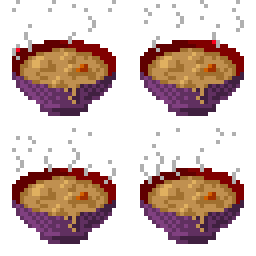
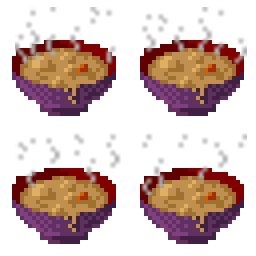
アイテムアニメーション

diff --git a/Solution/Item.cpp b/Solution/Item.cpp
@@ -1,16 +1,33 @@
 #include "Item.h"
+#include "Drawer.h"
+#include "Camera.h"
+#include "define.h"
 
 static const int CHIP_SIZE = 128;
 static const int CHIP_FOOT = 0;
 
 Item::Item( int x, int y ) :
-Character( x, y, CHIP_SIZE, CHIP_FOOT, false ) {
-	setChipGraph( GRAPH_ITEM, 0, 0 );
+_pos( x, y ),
+_count( 0 ) {
 }
 
 
 Item::~Item( ) {
 }
 
-void Item::act( ) {
+void Item::update( ) {
+	_count++;
+}
+
+void Item::draw( CameraConstPtr camera ) const {
+	int idx = _count / 5 % 4;
+	int tx = idx % 2 * CHIP_SIZE;
+	int ty = idx / 2 * CHIP_SIZE;
+	int sx = ( int )_pos.x - camera->getX( ) - CHIP_SIZE / 2;
+	int sy = ( int )_pos.y - camera->getY( ) - CHIP_SIZE / 2;
+
+	Drawer::Sprite sprite(
+		Drawer::Transform( sx, sy, tx, ty, CHIP_SIZE, CHIP_SIZE ), GRAPH_ITEM );
+	DrawerPtr drawer = Drawer::getTask( );
+	drawer->setSprite( sprite );
 }

diff --git a/Solution/Item.h b/Solution/Item.h
@@ -1,11 +1,19 @@
 #pragma once
-#include "Character.h"
 
-class Item : public Character {
+#include "smart_ptr.h"
+#include "mathmatics.h"
+
+PTR( Camera );
+
+class Item {
 public:
 	Item( int x, int y );
 	virtual ~Item( );
+public:
+	void update( );
+	void draw( CameraConstPtr camera ) const;
 private:
-	void act( );
+	int _count;
+	Vector _pos;
 };
 

diff --git a/Solution/ItemMgr.cpp b/Solution/ItemMgr.cpp
@@ -10,7 +10,12 @@ ItemMgr::~ItemMgr( ) {
 }
 
 void ItemMgr::update( ) {
-
+	std::list< ItemPtr >::iterator it = _items.begin( );
+	while ( it != _items.end( ) ) {
+		ItemPtr item = *it;
+		item->update( );
+		it++;
+	}
 }
 
 void ItemMgr::draw( CameraConstPtr camera ) const {
